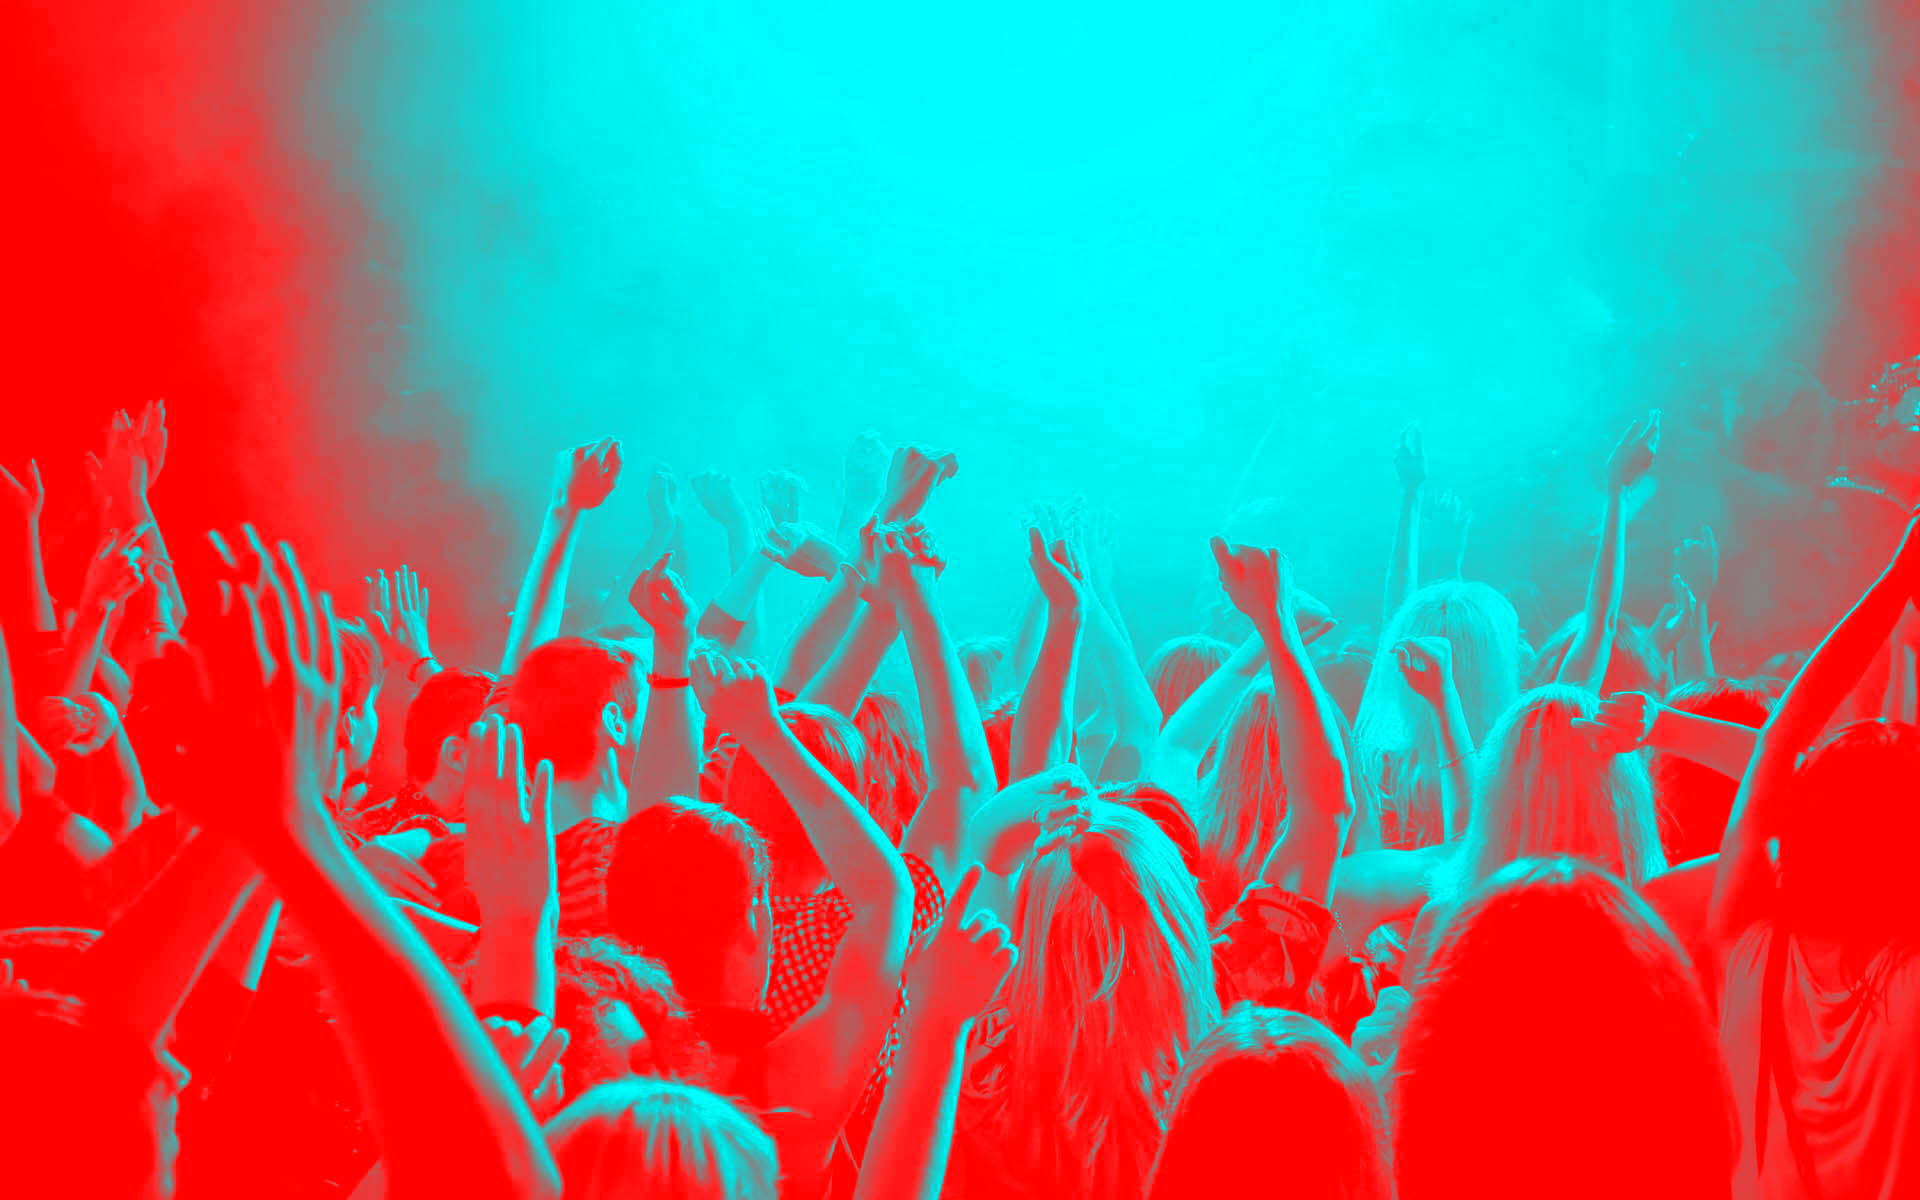
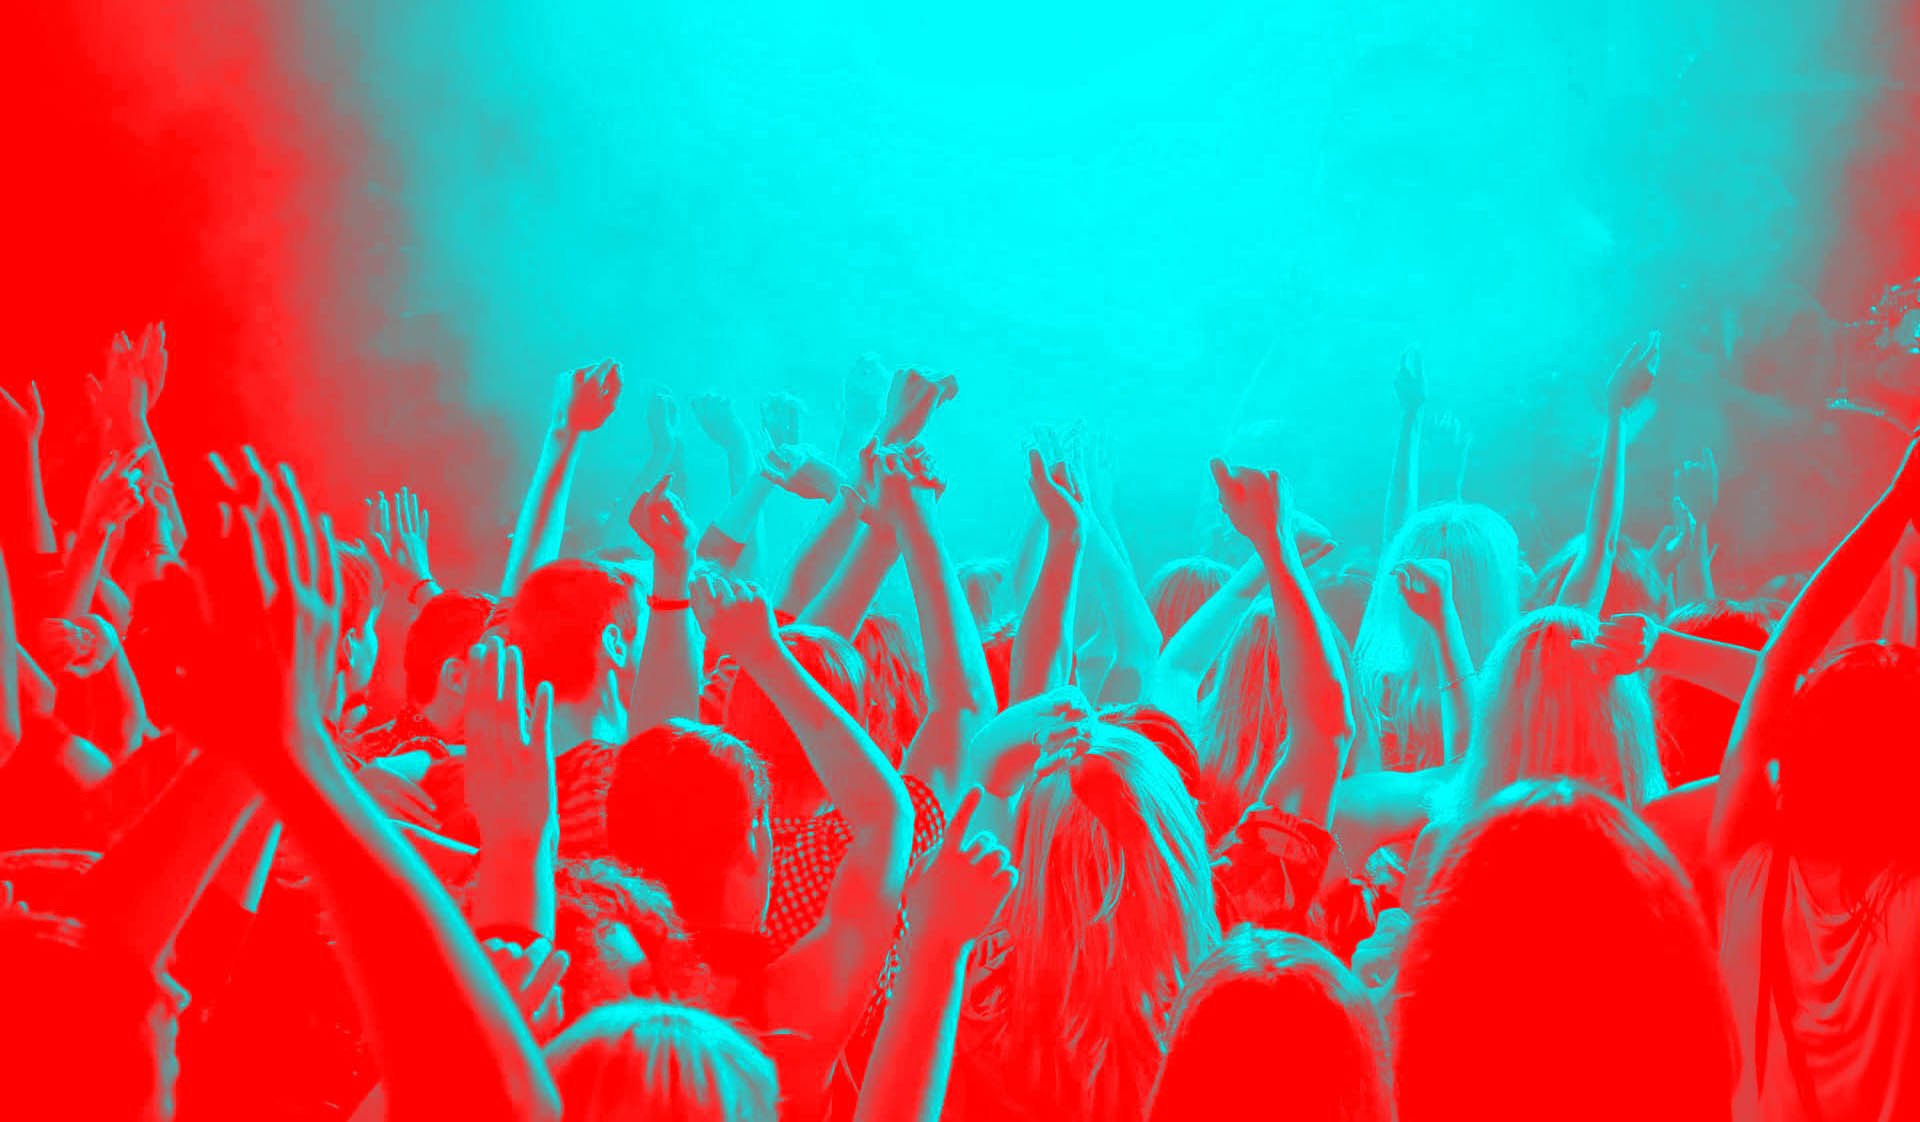
WIP

diff --git a/index.html b/index.html
@@ -7,6 +7,7 @@
 
     <!-- Bootstrap CSS -->
     <link rel="stylesheet" href="https://maxcdn.bootstrapcdn.com/bootstrap/4.0.0-beta/css/bootstrap.min.css" integrity="sha384-/Y6pD6FV/Vv2HJnA6t+vslU6fwYXjCFtcEpHbNJ0lyAFsXTsjBbfaDjzALeQsN6M" crossorigin="anonymous">
+    <link rel="stylesheet" type="text/css" href="css/custom.css">
   </head>
   <body>
 
@@ -25,7 +26,7 @@
                         <div class="carousel-caption">
                             <h1> Top Pieces Of Music</h1>
                                 <a href="#dualipa">
-                                    <button type="button" class="btn btn-primary">Discover</button>
+                                    <button type="button" class="btn btn-secondary col-7">Discover</button>
                                 </a>
                         </div>
                   </div>
@@ -34,16 +35,16 @@
                         <div class="carousel-caption">
                             <h1> POP</h1>
                                 <a href="#dualipa">
-                                    <button type="button" class="btn btn-primary">Discover</button>
+                                    <button type="button" class="btn btn-secondary col-7">Discover</button>
                                 </a>
                         </div>
                   </div>
                   <div class="carousel-item">
-                    <img class="d-block w-100" src="afbeeldingen/dirtyheads_duotoon.jpg" alt="Third slide">
+                    <img class="d-block w-100" src="afbeeldingen/dirtyheads_Cover.jpg" alt="Third slide">
                         <div class="carousel-caption">
                             <h1> ALTERNATIVE</h1>
                                 <a href="#dirtyheads">
-                                    <button type="button" class="btn btn-primary">Discover</button>
+                                    <button type="button" class="btn btn-secondary col-7"> Discover</button>
                                 </a>
                         </div>
                   </div>
@@ -52,7 +53,7 @@
                         <div class="carousel-caption">
                             <h1>ELECTRONIC</h1>
                                 <a href="#marianhill">
-                                    <button type="button" class="btn btn-primary">Discover</button>
+                                    <button type="button" class="btn btn-secondary col-7"> Discover </button>
                                 </a>
                         </div>
                   </div>
@@ -66,14 +67,13 @@
                   <span class="sr-only">Next</span>
                 </a>
               </div>
-            
             <!-- album 1 -->
                 <div class="row "> 
                     <a name="dualipa"></a>
-                    <h1> Dua Lipa</h1>
+                    <h2> Dua Lipa</h2>
                 </div>
                         <div class="row">
-                            <h2> Dua Lipa</h2> 
+                            <h5> Dua Lipa</h5> 
                                 <button type="button" class="btn btn-default btn-sm">
                                     <span class="glyphicon glyphicon-headphones"></span>listen
                                 </button>
@@ -85,8 +85,8 @@
                             </div>
                             <div>
                                 <ol>
-                                    <h2> Tracklist </h2>
-                                    <li> Genesis</li>
+                                    <h4> Tracklist </h4>
+                                    <li> <span class="glyphicon glyphicon-music"></span> Genesis</li>
                                     <li> Lost In Your Light</li>
                                     <li> Hotter Than Hell</li>
                                     <li> Be The One</li>
@@ -100,15 +100,15 @@
                                     <li> Homesick </li>
                                 </ol>
                             </div>
-                        </div>
+                        </div> 
                         <div class="row"></div>
-                            <div class="col-3">
-                                <button type="button" class="btn btn-secondary" data-toggle="collapse" href="#collapseExample" aria-expanded="false" aria-controls="collapseExample"> More </button>
+                            <div class="col-10">
+                                <button type="button" class="btn btn-secondary btn-block" data-toggle="collapse" href="#collapseExample" aria-expanded="false" aria-controls="collapseExample"> More </button>
                             </div>
                                 <div class="col-12">  
                                     <div class="collapse" id="collapseExample">
                                         <div class="card card-body">
-                                            <h2> Artist & Style</h2>
+                                            <h3> Artist & Style</h3>
                                               <p>  Dua lipa (Lipa - Albanees voor ‘ik hou van u’ ) is a british singer. Dua Lipa is well-known for her sultry vocals, the dark storylines and honest lyrics of her songs 
                                                 and her “progressive” pop sound. She describes her musical style as “dark pop”. Her biggest influence is Canadian pop singer 
                                                 Nelly Furtado. She also cites Pink, J. Cole, David Bowie, 2Pac, Kendrick Lamar, Bob Dylan, 50 Cent and A$AP Rocky as huge influences 
@@ -121,14 +121,13 @@
                             </div>
                         </div>
                         </div>
-            
         <!-- album 2 -->
                 <div class="row"> 
                     <a name="dirtyheads"></a>
-                    <h1> Sound Of Change</h1>
+                    <h2> Sound Of Change</h2>
                 </div>
                     <div class="row">
-                        <h2> Dirty Heads</h2>
+                        <h5> Dirty Heads</h5>
                         <button type="button" class="btn btn-default btn-sm">
                             <span class="glyphicon glyphicon-headphones"></span>listen
                         </button>
@@ -136,11 +135,11 @@
                     </div>
                         <div class="row">
                             <div class="col-10">
-                                <img src="afbeeldingen/SoundOfChange.jpg" class="img-fluid" class="rounded float-right" alt="Responsive image">
+                                <img src="afbeeldingen/soundofchange.jpg" class="img-fluid" class="rounded float-right" alt="Responsive image">
                             </div>
                             <div>
                                 <ol>
-                                    <h2> Tracklist</h2>
+                                    <h4> Tracklist</h4>
                                     <li> Sound Of Change</li>
                                     <li> My Sweet Summer</li>
                                     <li> Medusa (explicit)</li>
@@ -157,14 +156,15 @@
                                 </ol>
                             </div>
                             </div>
+            </div>
                                 <div class="row"></div>
-                                    <div class="col-3">
-                                        <button type="button" class="btn btn-secondary" data-toggle="collapse" href="#collapseExample2" aria-expanded="false" aria-controls="collapseExample"> More </button>
+                                    <div class="col-10">
+                                        <button type="button" class="btn btn-secondary btn-block" data-toggle="collapse" href="#collapseExample2" aria-expanded="false" aria-controls="collapseExample"> More </button>
                                     </div>
                                         <div class="col-12">  
                                             <div class="collapse" id="collapseExample2">
                                                 <div class="card card-body">
-                                                    <h2> Artist & Style</h2>
+                                                    <h3> Artist & Style</h3>
                                                        <p> Dirty Heads is a five-piece band founded in 2006. leaning heavily on reggae fused with hip-hop cornerstones 
                                                         and scaling back for more acoustic fare, darting between extremes. 
                                                         Sound of Change, which highlights the musical evolution and diversity of this group. With its wide range of sound
@@ -178,14 +178,14 @@
                                     </div>
                                 </div>
                          </div>
-
         <!-- album 3 -->
                 <div class="row "> 
                     <a name="marianhill"></a>
-                    <h1> Sway</h1>
+                    <h2> Sway</h2>
                 </div>
                      <div class="row">
-                        <h2> Marian Hill</h2>
+                        <h5> Marian Hill</h5>
+                    </div>
                             <button type="button" class="btn btn-default btn-sm">
                                 <span class="glyphicon glyphicon-headphones"></span>listen
                             </button>
@@ -193,11 +193,11 @@
                     </div>
                         <div class="row">
                             <div class="col-10">
-                                    <img src="afbeeldingen/sway_marianhill.jpg" class="img-fluid" class="rounded float-right" alt="Responsive image">
+                                    <img src="afbeeldingen/sway.jpg" class="img-fluid" class="rounded float-right" alt="Responsive image">
                             </div>
                             <div>
                                 <ol>
-                                    <h2> Tracklist </h2>
+                                    <h4> Tracklist </h4>
                                     <li> One Time</li>
                                     <li> Got It</li>
                                     <li> Lips</li>
@@ -209,13 +209,13 @@
                             </div>
                         </div>
                         <div class="row"></div>
-                            <div class="col-3">
-                                <button type="button" class="btn btn-secondary" data-toggle="collapse" href="#collapseExample3" aria-expanded="false" aria-controls="collapseExample"> More </button>
+                            <div class="col-10">
+                                <button type="button" class="btn btn-secondary btn-block" data-toggle="collapse" href="#collapseExample3" aria-expanded="false" aria-controls="collapseExample"> More </button>
                             </div>
                                 <div class="col-12">  
                                     <div class="collapse" id="collapseExample3">
                                         <div class="card card-body">
-                                            <h2> Artist & Style</h2>
+                                            <h3> Artist & Style</h3>
                                                 <p>[Marian Hill is an American Singer songwriter duo. influences ranging from Cole Porter to Kanye, from Ella Fitzgerald to Drake,
                                                  while many artists define themselves by the mixture of inspirations they’ve concocted, Marian Hill go one step further: 
                                                  fusing disparate sources into a compound sound that’s hard to imagine ever having been apart. Their unique sound combines 
@@ -232,6 +232,9 @@
                 &#169; COPYRIGHT 2017
             </footer> 
         </div>
+
+    
+        
     <!-- Optional JavaScript -->
     <!-- jQuery first, then Popper.js, then Bootstrap JS -->
     <script src="https://code.jquery.com/jquery-3.2.1.slim.min.js" integrity="sha384-KJ3o2DKtIkvYIK3UENzmM7KCkRr/rE9/Qpg6aAZGJwFDMVNA/GpGFF93hXpG5KkN" crossorigin="anonymous"></script>

diff --git a/css/custom.css b/css/custom.css
@@ -1,0 +1,62 @@
+@import url('https://fonts.googleapis.com/css?family=Arvo');
+@import url('//maxcdn.bootstrapcdn.com/bootstrap/3.3.5/css/bootstrap.min.css');
+
+
+h1, h2, h3 {
+    font-family: "Blackout Midnight", sans-serif;  
+}
+
+h1 {
+    font-size: 50px;
+}
+
+h4, h5, p {
+    font-family: "Arvo", serif;
+}
+
+h4 {
+    font-size: 24px;
+    font-weight: bold;
+}
+
+h5 {
+    font-size: 15px;
+    text-align: left;
+}
+
+a {
+    font-family: "Blackout Midnight", sans-serif;
+}
+
+
+.btn-secondary {
+    background-color: #F51515;
+    color: white;
+    border: 5px solid #2c9494;
+}
+
+.btn-secondary:hover {
+    background-color: #2c9494;
+}
+
+li {
+    font-family: "Arvo", serif; 
+}
+
+
+
+// Extra small devices (portrait phones, less than 576px)
+// No media query since this is the default in Bootstrap
+
+
+// Small devices (landscape phones, 576px and up)
+@media (min-width: 576px) { ... }
+
+// Medium devices (tablets, 768px and up)
+@media (min-width: 768px) { ... }
+
+// Large devices (desktops, 992px and up)
+@media (min-width: 992px) { ... }
+
+// Extra large devices (large desktops, 1200px and up)
+@media (min-width: 1200px) { ... }
